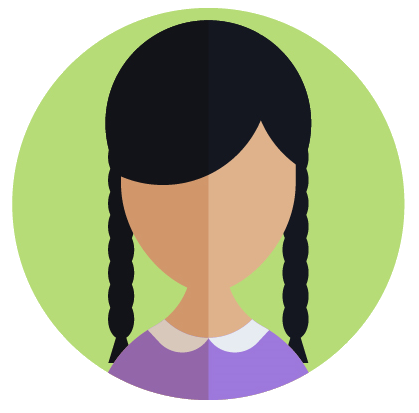
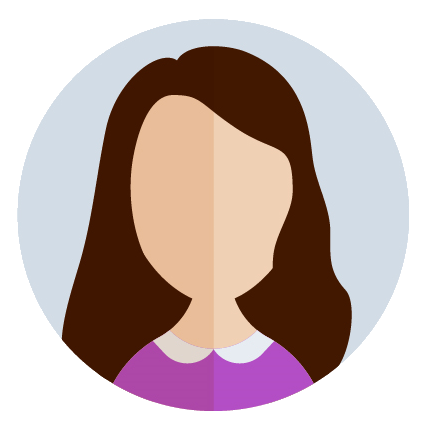
GUI -profile images

diff --git a/src/main/java/GUI/Register/RegisterController.java b/src/main/java/GUI/Register/RegisterController.java
@@ -14,6 +14,7 @@ import javafx.scene.Scene;
 import javafx.scene.control.*;
 import javafx.scene.image.ImageView;
 import javafx.scene.input.MouseEvent;
+import javafx.scene.layout.AnchorPane;
 import javafx.scene.layout.Pane;
 import javafx.scene.media.Media;
 import javafx.scene.media.MediaPlayer;
@@ -124,6 +125,9 @@ public class RegisterController {
         } else if (((String) role.getValue()).equalsIgnoreCase("salesman") && company.getText().equals("")) {
             alert.setContentText("Company Field Must Not Be Empty");
             alert.showAndWait();
+        } else if(((Label) (((AnchorPane) avatarPane.getChildren().get(0)).getChildren().get(12))).getText().equals("")) {
+            alert.setContentText("please chose your avatar");
+            alert.showAndWait();
         } else {
             if (!checkUsernameFormat(username.getText())) {
                 alert.setContentText("Username Should Consists Of Only Characters And Numbers And _ Without Space");
@@ -158,6 +162,7 @@ public class RegisterController {
                 } else {
                     alert.setAlertType(Alert.AlertType.CONFIRMATION);
                     alert.setContentText("Your Register Was Successful");
+                    setAvatarInServer(username.getText());
                 }
                 alert.showAndWait();
                 Parent root = FXMLLoader.load(getClass().getResource("/GUI/Register/Register.fxml"));
@@ -165,6 +170,12 @@ public class RegisterController {
                 stage.setScene(new Scene(root));
             }
         }
+    }
+
+    private void setAvatarInServer(String username) throws ParseException {
+        String avatar = ((Label) (((AnchorPane) avatarPane.getChildren().get(0)).getChildren().get(12))).getText();
+        String toServer = "set person image+" + username + "+" + avatar;
+        MenuHandler.getServer().clientToServer(toServer);
     }
 
     public void checkSalesmanRole() {

diff --git a/src/main/java/GUI/RegisterBoss/Controller.java b/src/main/java/GUI/RegisterBoss/Controller.java
@@ -11,6 +11,7 @@ import javafx.scene.Scene;
 import javafx.scene.control.*;
 import javafx.scene.image.ImageView;
 import javafx.scene.input.MouseEvent;
+import javafx.scene.layout.AnchorPane;
 import javafx.scene.layout.Pane;
 import javafx.scene.media.Media;
 import javafx.scene.media.MediaPlayer;
@@ -62,6 +63,9 @@ public class Controller {
         } else if (telephone.getText().equals("")) {
             alert.setContentText("Telephone Field Must Not Be Empty");
             alert.showAndWait();
+        } else if(((Label) (((AnchorPane) avatarPane.getChildren().get(0)).getChildren().get(12))).getText().equals("")) {
+            alert.setContentText("Please chose your avatar");
+            alert.showAndWait();
         } else {
             if (checkUsernameFormat(username.getText())) {
                 alert.setContentText("Username Should Consists Of Only Characters And Numbers And _ Without Space");
@@ -90,11 +94,18 @@ public class Controller {
                 alert.setAlertType(Alert.AlertType.CONFIRMATION);
                 alert.setContentText("Your Register Was Successful");
                 alert.showAndWait();
+                setAvatarInServer(username.getText());
                 Parent root = FXMLLoader.load(getClass().getResource("/GUI/ProductScene/ProductScene.fxml"));
                 Stage stage = (Stage) ((Button) actionEvent.getSource()).getScene().getWindow();
                 stage.setScene(new Scene(root));
             }
         }
+    }
+
+    private void setAvatarInServer(String username) throws ParseException {
+        String avatar = ((Label) (((AnchorPane) avatarPane.getChildren().get(0)).getChildren().get(12))).getText();
+        String toServer = "set person image+" + username + "+" + avatar;
+        MenuHandler.getServer().clientToServer(toServer);
     }
 
     private Matcher getMatcher(String regex, String command) {

diff --git a/src/main/java/GUI/ProfileLayout/ProfileLayoutController.java b/src/main/java/GUI/ProfileLayout/ProfileLayoutController.java
@@ -23,27 +23,21 @@ import java.text.ParseException;
 
 public class ProfileLayoutController {
     public Pane pane;
-    public ImageView imageView;
     public ImageView profileImage;
 
 
     public void initialize() throws IOException, ParseException {
         MenuHandler.setBackProduct("GUI/ProfileLayout/ProfileLayout.fxml");
         pane.getChildren().add(FXMLLoader.load(getClass().getResource("/GUI/ProfileLayout/PersonalInfoLayout.fxml")));
-        FileInputStream imageStream = new FileInputStream("src/main/java/GUI/ProductScene/resources/user.png");
-        Image image = new Image(imageStream);
-        profileImage.setImage(image);
+        setProfileImage();
     }
 
     public void setProfileImage() throws ParseException, IOException {
-        if (MenuHandler.getServer().serverToClient() == null) {
-            return;
-        }
-        MenuHandler.getServer().clientToServer("get person image+" + MenuHandler.getUsername());
-        if (!MenuHandler.getServer().serverToClient().startsWith("no image found")) {
-           // profileImage.setImage(new Image(MenuHandler.getServer().serverToClient()));
-        } else {
-            FileInputStream imageStream = new FileInputStream("src/main/java/GUI/ProductScene/resources/user.png");
+        if (!MenuHandler.getUserAvatar().equals("no image found")) {
+            String path = "src/main/java/GUI/Register/resources/";
+            String avatar = MenuHandler.getUserAvatar() + ".png";
+            System.out.println(avatar);
+            FileInputStream imageStream = new FileInputStream(path + avatar);
             Image image = new Image(imageStream);
             profileImage.setImage(image);
         }

diff --git a/src/main/java/GUI/ProductScene/ProductSceneController.java b/src/main/java/GUI/ProductScene/ProductSceneController.java
@@ -23,6 +23,8 @@ import javafx.stage.Stage;
 import javafx.util.Duration;
 
 import java.io.File;
+import java.io.FileInputStream;
+import java.io.FileNotFoundException;
 import java.io.IOException;
 import java.text.ParseException;
 
@@ -47,6 +49,7 @@ public class ProductSceneController {
             Parent registerLoginPopUp = FXMLLoader.load(getClass().getResource("/GUI/MainMenuPopups/ProfilePopup.fxml"));
             popup.getContent().addAll(registerLoginPopUp);
             ((Label) ((VBox) registerLoginPopUp).getChildren().get(1)).setText(MenuHandler.getUsername());
+            setProfileImageInProfilePopup(registerLoginPopUp);
             ((Button) ((HBox) ((VBox) registerLoginPopUp).getChildren().get(2)).getChildren().get(0)).setOnAction(event -> {
                 Parent root = null;
                 try {
@@ -120,6 +123,17 @@ public class ProductSceneController {
                 popup.getScene().getWindow().hide();
             });
             popup.show(stage);
+        }
+    }
+
+    private void setProfileImageInProfilePopup(Parent root) throws FileNotFoundException {
+        if (!MenuHandler.getUserAvatar().equals("no image found")) {
+            String path = "src/main/java/GUI/Register/resources/";
+            String avatar = MenuHandler.getUserAvatar() + ".png";
+            FileInputStream imageStream = new FileInputStream(path + avatar);
+            Image image = new Image(imageStream);
+            ImageView profileImage = (ImageView) ((VBox) root).getChildren().get(0);
+            profileImage.setImage(image);
         }
     }
 

diff --git a/src/main/java/GUI/CustomerProfile/CustomerProfileController.java b/src/main/java/GUI/CustomerProfile/CustomerProfileController.java
@@ -10,20 +10,36 @@ import javafx.scene.Scene;
 import javafx.scene.control.Alert;
 import javafx.scene.control.Button;
 import javafx.scene.control.ButtonType;
+import javafx.scene.image.Image;
+import javafx.scene.image.ImageView;
 import javafx.scene.input.MouseEvent;
 import javafx.scene.layout.Pane;
 import javafx.stage.Stage;
 
+import java.io.FileInputStream;
+import java.io.FileNotFoundException;
 import java.io.IOException;
 
 public class CustomerProfileController {
     public Pane pane;
+    public ImageView profileImage;
 
     @FXML
     public void initialize() throws IOException {
         MenuHandler.setPane(pane);
         pane.getChildren().clear();
         pane.getChildren().add(FXMLLoader.load(getClass().getResource("/GUI/ProfileLayout/PersonalInfoLayout.fxml")));
+        setProfileImage();
+    }
+
+    private void setProfileImage() throws FileNotFoundException {
+        if (!MenuHandler.getUserAvatar().equals("no image found")) {
+            String path = "src/main/java/GUI/Register/resources/";
+            String avatar = MenuHandler.getUserAvatar() + ".png";
+            FileInputStream imageStream = new FileInputStream(path + avatar);
+            Image image = new Image(imageStream);
+            profileImage.setImage(image);
+        }
     }
 
     public void managePersonalInfo(MouseEvent mouseEvent) throws IOException {

diff --git a/src/main/java/GUI/SalesmanProfile/SalesmanProfileController.java b/src/main/java/GUI/SalesmanProfile/SalesmanProfileController.java
@@ -9,18 +9,34 @@ import javafx.scene.Scene;
 import javafx.scene.control.Alert;
 import javafx.scene.control.Button;
 import javafx.scene.control.ButtonType;
+import javafx.scene.image.Image;
+import javafx.scene.image.ImageView;
 import javafx.scene.layout.Pane;
 import javafx.stage.Stage;
 
 import javax.sound.sampled.AudioInputStream;
+import java.io.FileInputStream;
+import java.io.FileNotFoundException;
 import java.io.IOException;
 
 public class SalesmanProfileController {
     public Pane pane;
+    public ImageView profileImage;
 
     public void initialize() throws IOException {
         MenuHandler.setPane(pane);
         pane.getChildren().add(FXMLLoader.load(getClass().getResource("/GUI/ProfileLayout/PersonalInfoLayout.fxml")));
+        setProfileImage();
+    }
+
+    private void setProfileImage() throws FileNotFoundException {
+        if (!MenuHandler.getUserAvatar().equals("no image found")) {
+            String path = "src/main/java/GUI/Register/resources/";
+            String avatar = MenuHandler.getUserAvatar() + ".png";
+            FileInputStream imageStream = new FileInputStream(path + avatar);
+            Image image = new Image(imageStream);
+            profileImage.setImage(image);
+        }
     }
 
     public void manageProducts(ActionEvent actionEvent) throws IOException {

diff --git a/src/main/java/GUI/Register/AvatarController.java b/src/main/java/GUI/Register/AvatarController.java
@@ -6,6 +6,7 @@ import javafx.animation.ScaleTransition;
 import javafx.animation.TranslateTransition;
 import javafx.fxml.FXML;
 import javafx.scene.Node;
+import javafx.scene.control.Label;
 import javafx.scene.image.ImageView;
 import javafx.scene.input.MouseEvent;
 import javafx.scene.shape.Circle;
@@ -26,6 +27,7 @@ public class AvatarController {
     public ImageView image3;
     public ImageView image4;
     public ImageView image5;
+    public Label chosenAvatar;
     ArrayList<Circle> destinations = new ArrayList<>();
     ArrayList<ImageView> images = new ArrayList<>();
     ArrayList<Double> toX;
@@ -84,12 +86,14 @@ public class AvatarController {
 
     private void choseItem(int i) {
         isOtherVisible = false;
+        chosenAvatar.setText("avatar" + (i + 1));
         moveToCenter(i);
         hideOthers(i);
     }
 
     private void showChoices(int i) {
         isOtherVisible = true;
+        chosenAvatar.setText("");
         for (ImageView image : images) {
             image.setDisable(false);
         }

diff --git a/src/main/java/Controller/Server.java b/src/main/java/Controller/Server.java
@@ -426,7 +426,7 @@ public class Server {
         String username = command.split("\\+")[1];
         for (Account account : Storage.getAllAccounts()) {
             if (account.getUsername().equals(username)) {
-                account.setImgPath(command.split("\\+")[2]);
+                account.setAvatar(command.split("\\+")[2]);
                 Server.setAnswer("successful");
                 return;
             }
@@ -437,8 +437,8 @@ public class Server {
         String username = command.split("\\+")[1];
         for (Account account : Storage.getAllAccounts()) {
             if (account.getUsername().equals(username)) {
-                if (account.getImgPath() != null) {
-                    Server.setAnswer(account.getImgPath());
+                if (account.getAvatar() != null) {
+                    Server.setAnswer(account.getAvatar());
                     return;
                 } else {
                     Server.setAnswer("no image found");

diff --git a/src/main/java/GUI/Login/LoginController.java b/src/main/java/GUI/Login/LoginController.java
@@ -55,6 +55,7 @@ public class LoginController {
                     MenuHandler.setUserType("SALESMAN");
                 }
                 MenuHandler.setUsername(serverAnswer.split("\\s")[4]);
+                setAvatarInClient();
                 alert.setAlertType(Alert.AlertType.INFORMATION);
                 alert.setContentText("Login Successful" + "\n" + "Welcome");
                 alert.showAndWait();
@@ -66,6 +67,13 @@ public class LoginController {
                 alert.showAndWait();
             }
         }
+    }
+
+    private void setAvatarInClient() throws ParseException, IOException {
+        String toServer = "get person image+" + MenuHandler.getUsername();
+        MenuHandler.getServer().clientToServer(toServer);
+        String respond = MenuHandler.getServer().serverToClient();
+        MenuHandler.setUserAvatar(respond);
     }
 
     public void openRegisterMenu(ActionEvent actionEvent) throws IOException {

diff --git a/src/main/java/Model/Account/Account.java b/src/main/java/Model/Account/Account.java
@@ -17,6 +17,7 @@ public abstract class Account implements Serializable {
     private String telephone;
     private Role role;
     private String imgPath;
+    private String avatar;
 
     public Account(String username, String password, String firstName, String secondName, String Email, String telephone, String role) {
         this.username = username;
@@ -38,6 +39,14 @@ public abstract class Account implements Serializable {
 
     public void setImgPath(String imgPath) {
         this.imgPath = imgPath;
+    }
+
+    public void setAvatar(String avatar) {
+        this.avatar = avatar;
+    }
+
+    public String getAvatar() {
+        return avatar;
     }
 
     public String getImgPath() {

diff --git a/src/main/java/GUI/MenuHandler.java b/src/main/java/GUI/MenuHandler.java
@@ -10,6 +10,7 @@ import java.util.ArrayList;
 
 public class MenuHandler {
     static private String username = null;
+    static private String userAvatar = null;
     static private Server server;
     static private String productID = null;
     static private String requestID = null;
@@ -152,5 +153,13 @@ public class MenuHandler {
 
     public static void setSeeingSale(String seeingSale) {
         MenuHandler.seeingSale = seeingSale;
+    }
+
+    public static String getUserAvatar() {
+        return userAvatar;
+    }
+
+    public static void setUserAvatar(String userAvatar) {
+        MenuHandler.userAvatar = userAvatar;
     }
 }
